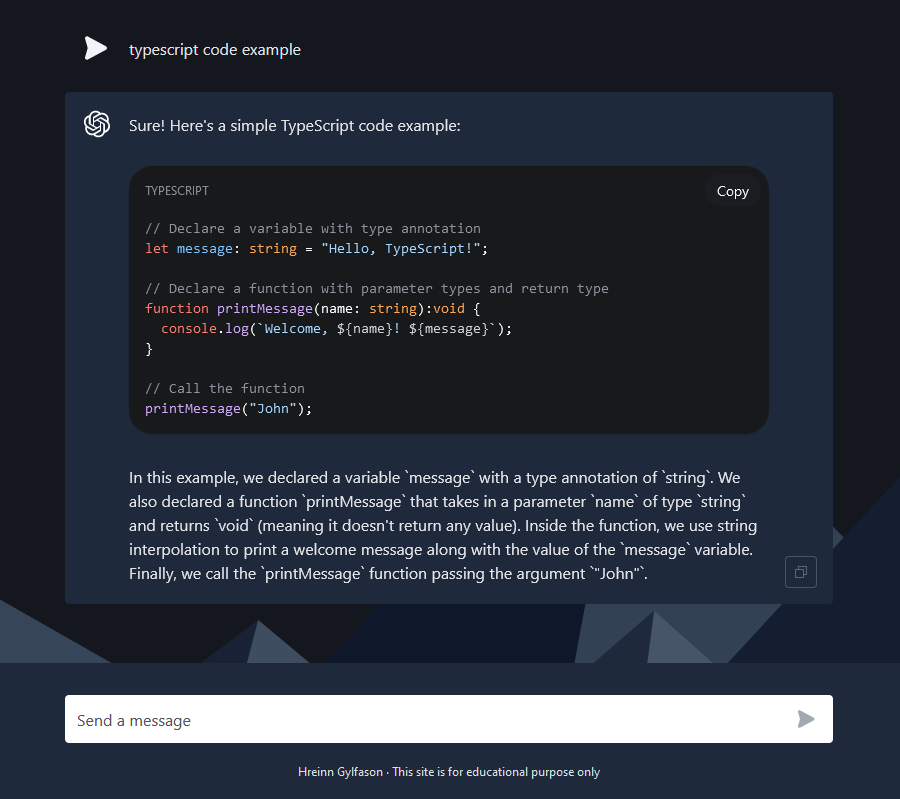
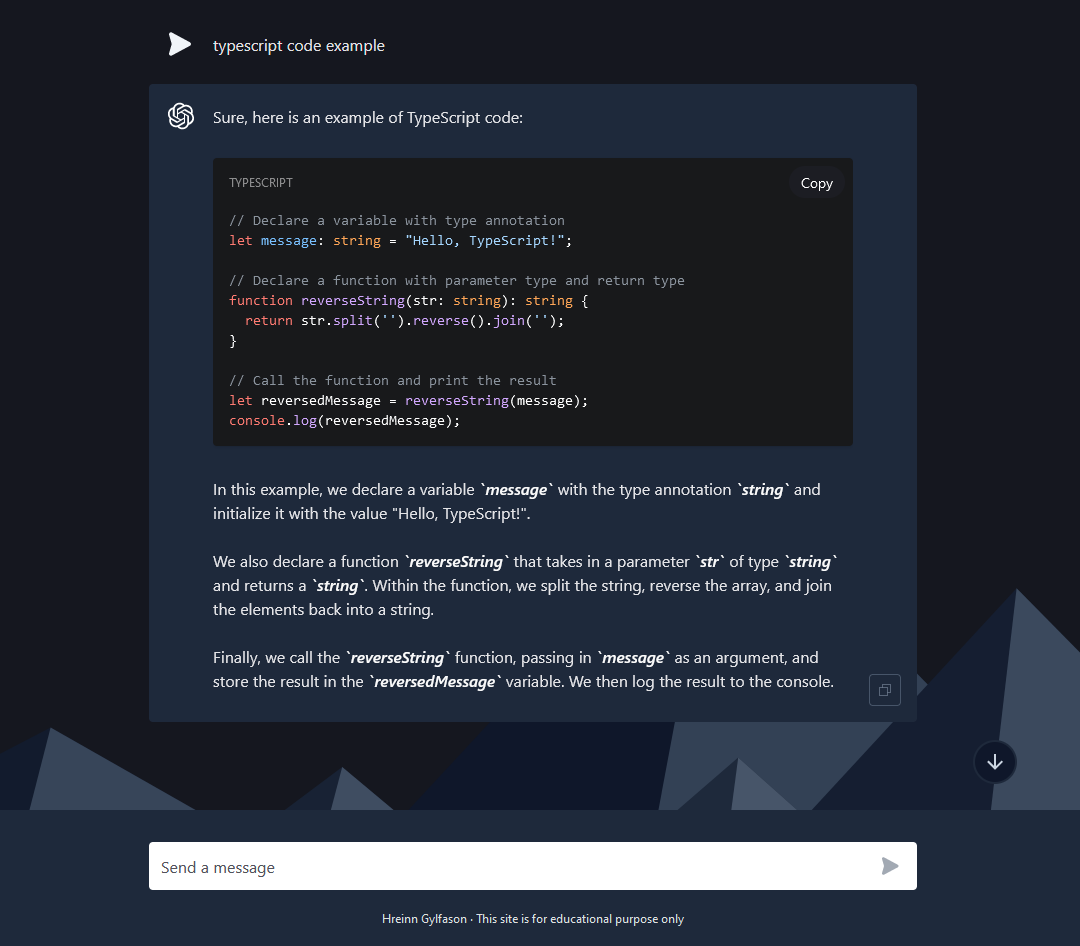
Updates SvelteKit ChatGPT screenshots. Moves screenshot modal closer to top. Adds .gitignore file.

diff --git a/css/style.css b/css/style.css
@@ -163,14 +163,14 @@ h4 span {
     position: relative;
     margin: 0 auto;
     max-width: max-content;
-    padding: 128px 0;
+    padding: 104px 0;
 }
 
 .fa-xmark {
     display: none;
     position: absolute;
     right: 0;
-    top: 64px;
+    top: 40px;
     color: whitesmoke;
     font-size: 56px;
     cursor: pointer;
